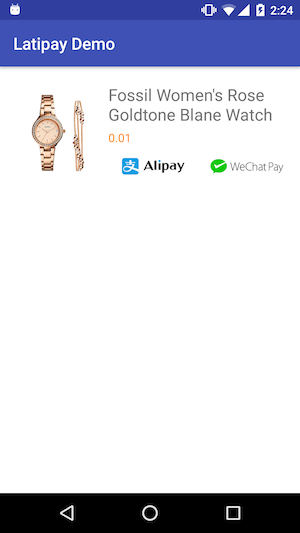
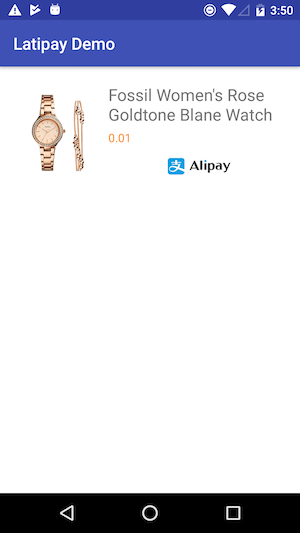
update readme

Changed region(s): [[0.39, 0.2702, 0.96, 0.3302], [0.66, 0.0, 0.99, 0.03], [0.03, 0.0, 0.21, 0.03]]

diff --git a/app/src/main/java/demo/sdk/latipay/net/latipaysdk_demo/MainActivity.java b/app/src/main/java/demo/sdk/latipay/net/latipaysdk_demo/MainActivity.java
@@ -12,8 +12,6 @@ import android.widget.Toast;
 import net.latipay.mobile.AlipayOrderAndPaymentListener;
 import net.latipay.mobile.AlipayRequest;
 import net.latipay.mobile.LatipayAPI;
-import net.latipay.mobile.WechatpayRequest;
-import net.latipay.mobile.WechatpayOrderListener;
 
 import java.util.HashMap;
 
@@ -21,8 +19,6 @@ public class MainActivity extends AppCompatActivity {
     private static final String TAG = MainActivity.class.getSimpleName();
 
     private ProgressDialog dialog;
-
-    private String wechatpayOrderId;
 
     @Override
     protected void onCreate(Bundle savedInstanceState) {
@@ -41,14 +37,6 @@ public class MainActivity extends AppCompatActivity {
             @Override
             public void onClick(View view) {
                 activity.clickAlipay(activity);
-            }
-        });
-
-        ImageButton wechatPayBtn = findViewById(R.id.wechat_btn);
-        wechatPayBtn.setOnClickListener(new View.OnClickListener() {
-            @Override
-            public void onClick(View view) {
-                activity.clickWechat(activity);
             }
         });
     }
@@ -88,66 +76,5 @@ public class MainActivity extends AppCompatActivity {
         });
 
         LatipayAPI.sendRequest(req);
-    }
-
-    private void clickWechat(final MainActivity activity) {
-
-        activity.dialog = ProgressDialog.show(activity, null, "Loading", false, true);
-
-
-        //send request
-        WechatpayRequest req = new WechatpayRequest(activity);
-        req.amount = "0.01";
-        req.merchantReference = "a reference";
-        req.productName = "Fossil Women's Rose Goldtone Blane Watch";
-        req.callbackUrl = "https://yourwebsite.com/pay_callback";
-
-        req.setListener(new WechatpayOrderListener() {
-            @Override
-            public void onOrderCompleted(HashMap<String, String> latipayOrder, Error error) {
-                Log.d(TAG, "onTransactionCompleted " + String.valueOf(latipayOrder) + (error != null ? error.getMessage() : ""));
-                activity.dialog.dismiss();
-
-                if (latipayOrder != null) {
-                    wechatpayOrderId = latipayOrder.get("order_id");
-                }
-
-                if (error != null) {
-                    Toast.makeText(activity, "Latipay: " + error.getMessage(), Toast.LENGTH_LONG).show();
-                    return;
-                }
-
-                Toast.makeText(activity, "Go to Wechatpay", Toast.LENGTH_LONG).show();
-            }
-        });
-
-        LatipayAPI.sendRequest(req);
-    }
-
-    @Override
-    protected void onResume() {
-        super.onResume();
-
-        if (wechatpayOrderId != null) {
-            final MainActivity activity = this;
-
-            LatipayAPI.getPaymentStatus(wechatpayOrderId, new LatipayAPI.PaymentStatusListener() {
-                @Override
-                public void onOrderStatusSuccess(String result) {
-                    Log.d(TAG, result);
-
-                    Toast.makeText(activity, "Get Pay Status Success", Toast.LENGTH_SHORT).show();
-                }
-
-                @Override
-                public void onOrderStatusFailed(Error error) {
-                    Log.d(TAG, error.toString());
-
-                    Toast.makeText(activity, "Get Pay Status Failed", Toast.LENGTH_SHORT).show();
-
-                }
-            });
-            wechatpayOrderId = null;
-        }
     }
 }

diff --git a/README.md b/README.md
@@ -2,34 +2,35 @@
 
 Using [Latipay](http://www.latipay.net) sdk to intergrate Alipay and Wechatpay
 
-![](screenshot/home.png)
+![](screenshot/home.png?a)
 
-### 1. Download latipay.aar module and import it into your android studio project.
+### 1. Download [latipay.aar](https://github.com/Latipay/LatipaySDK-Android-Demo/blob/master/latipay/latipay.aar) module and import it into your android studio project.
 
 ![](screenshot/framework.png)
 
 
-Add dependencies in your project's build.gradle
+Add latipay dependency into your project's build.gradle
 
 ```
-implementation 'com.squareup.okhttp3:okhttp:3.8.1'
-implementation project(':latipay')
+dependencies {
+	...
+	implementation project(':latipay')``
+}
 ```
 
-### 2. Setup Latipay info, [you can get apiKey here](https://merchant.latipay.co.nz/user/regist.action)
+### 2. Setup Latipay info in project, [you can get apiKey here](https://merchant.latipay.co.nz/user/regist.action) or [contact us](http://www.latipay.net/contact/)
 
-```swift
-
-LatipayAPI.setup("apiKey", "userId", "walletId");
+```java
+LatipayAPI.setup("your apiKey", "your userId", "your walletId");
 
 ```
 
-### 3. App user purchases with goods using wechat or alipay app
+### 3. App user purchases with goods using alipay app
 
 ```java
 
 AlipayRequest req = new AlipayRequest(this);
-req.amount = "0.01";
+req.amount = "8.88";
 req.merchantReference = "a reference";
 req.productName = "Fossil Women's Rose Goldtone Blane Watch";
 req.callbackUrl = "https://yourwebsite.com/pay_callback";
@@ -49,56 +50,29 @@ req.setListener(new AlipayOrderAndPaymentListener() {
 LatipayAPI.sendRequest(req);
 ```
 
-### 4. But for Wechatpay, there is one more step. We need to request the result of payment when Wechat app finished the payment.
-
-```java
-private String wechatpayOrderId;
-
-
-WechatPayRequest req = new WechatPayRequest(activity);
-req.amount = "0.01";
-req.merchantReference = "a reference";
-req.productName = "Fossil Women's Rose Goldtone Blane Watch";
-req.callbackUrl = "https://yourwebsite.com/pay_callback";
-
-req.setListener(new WechatpayOrderListener() {
-    @Override
-    public void onOrderCompleted(HashMap<String, String> latipayOrder, Error error) {
-        
-        wechatpayOrderId = latipayOrder.get("order_id");
-    }
-});
-
-LatipayAPI.sendRequest(req);
-```
-Load the infomation of latipay order in onResume()
-
-```java
-LatipayAPI.getPaymentStatus(wechatpayOrderId, new LatipayAPI.PaymentStatusListener() {
-    @Override
-    public void onOrderStatusSuccess(String result) {
-    	//unpaid or paid
-    }
-
-    @Override
-    public void onOrderStatusFailed(Error error) {
-
-    }
-});
-```
-### 5. No more steps in App
-
 --
 
-### 6. In your web server, please support the below api for callback when payment successful or failed
-API: https://yourwebsite.com/pay_callback
+### 5. In your web server, please support the below api for notifying when payment finished.
 
-Method: GET
+```
+POST https://yourwebsite.com/pay_callback
+```
 
 Parameters:
 
+```json
+{
+	"transaction_id": "43cb917ff8a6",
+	"merchant_reference": "dsi39ej430sks03",
+	"amount": "120.00",
+	"currency": "NZD",
+	"payment_method": "alipay",
+	"pay_time": "2017-07-07 10:53:50",
+	"status" : "paid",
[1 lines of base64/hex data omitted]
+}
 ```
-order_id=1&...
-```
+
+[More info about this notify api](http://doc.latipay.net/v2/latipay-hosted-online.html#Payment-Result-Asynchronous-Notification)
 
 
